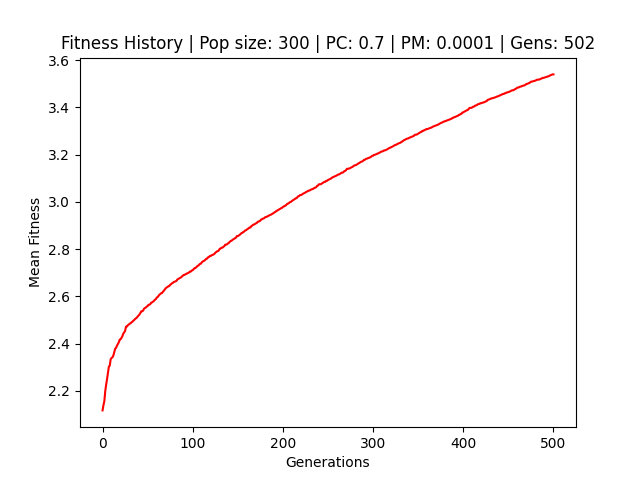
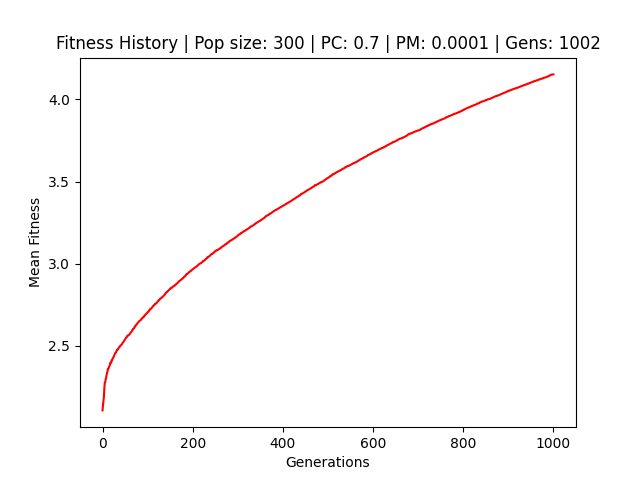
Run test with 1000 gens. Best genome improved

diff --git a/PartB/code/main.py b/PartB/code/main.py
@@ -21,8 +21,8 @@ DATA_PATH = os.path.join(os.path.dirname(pathlib.Path(__file__).parent.resolve()
 # Parameters
 GENERATIONS_TO_WAIT = 10
 ELITISM = True
-MAX_GENERATIONS = 500
-TIMES_TO_RUN = 1
+MAX_GENERATIONS = 1000
+TIMES_TO_RUN = 10
 
 mean_tf_idf = get_tf_idf_mean("sklearn_mean_tf_idf.dat")
 best_genome_of_all, best_fitness_of_all = [] , -1
@@ -40,7 +40,7 @@ parameters = [
     ]
 custom_parameters = [(300, .7, (1.0 / VOCAB_LENGTH))]
 
-for parameter in custom_parameters:
+for parameter in parameters:
     population_size, pc, pm = parameter
     all_best_fitness_history = []
     mean_of_best_fitness = 0
@@ -69,7 +69,7 @@ for parameter in custom_parameters:
                 best_genome, best_fitness = population[0], fitness(population[0], mean_tf_idf)
                 generations_without_improvement = 0
 
-            print("Generation: {} | Best fitness: {} | Number of words selected: {} | Improvement: {}%".format(i, best_fitness, sum(population[0]), improvement))
+            # print("Generation: {} | Best fitness: {} | Number of words selected: {} | Improvement: {}%".format(i, best_fitness, sum(population[0]), improvement))
 
             next_generation = []
 
@@ -118,5 +118,5 @@ for parameter in custom_parameters:
 
 # Write best genome to file
 assert len(best_genome_of_all) == VOCAB_LENGTH, "Error: len(best_genome_of_all) != VOCAB_LENGTH"
-with open(os.path.join(DATA_PATH, "custom_best_genome_from_genetic.dat"), "w") as f:
+with open(os.path.join(DATA_PATH, "best_genome_from_genetic.dat"), "w") as f:
     f.write(str(best_fitness_of_all) + ", " + ' '.join(str(bit) for bit in best_genome_of_all))
